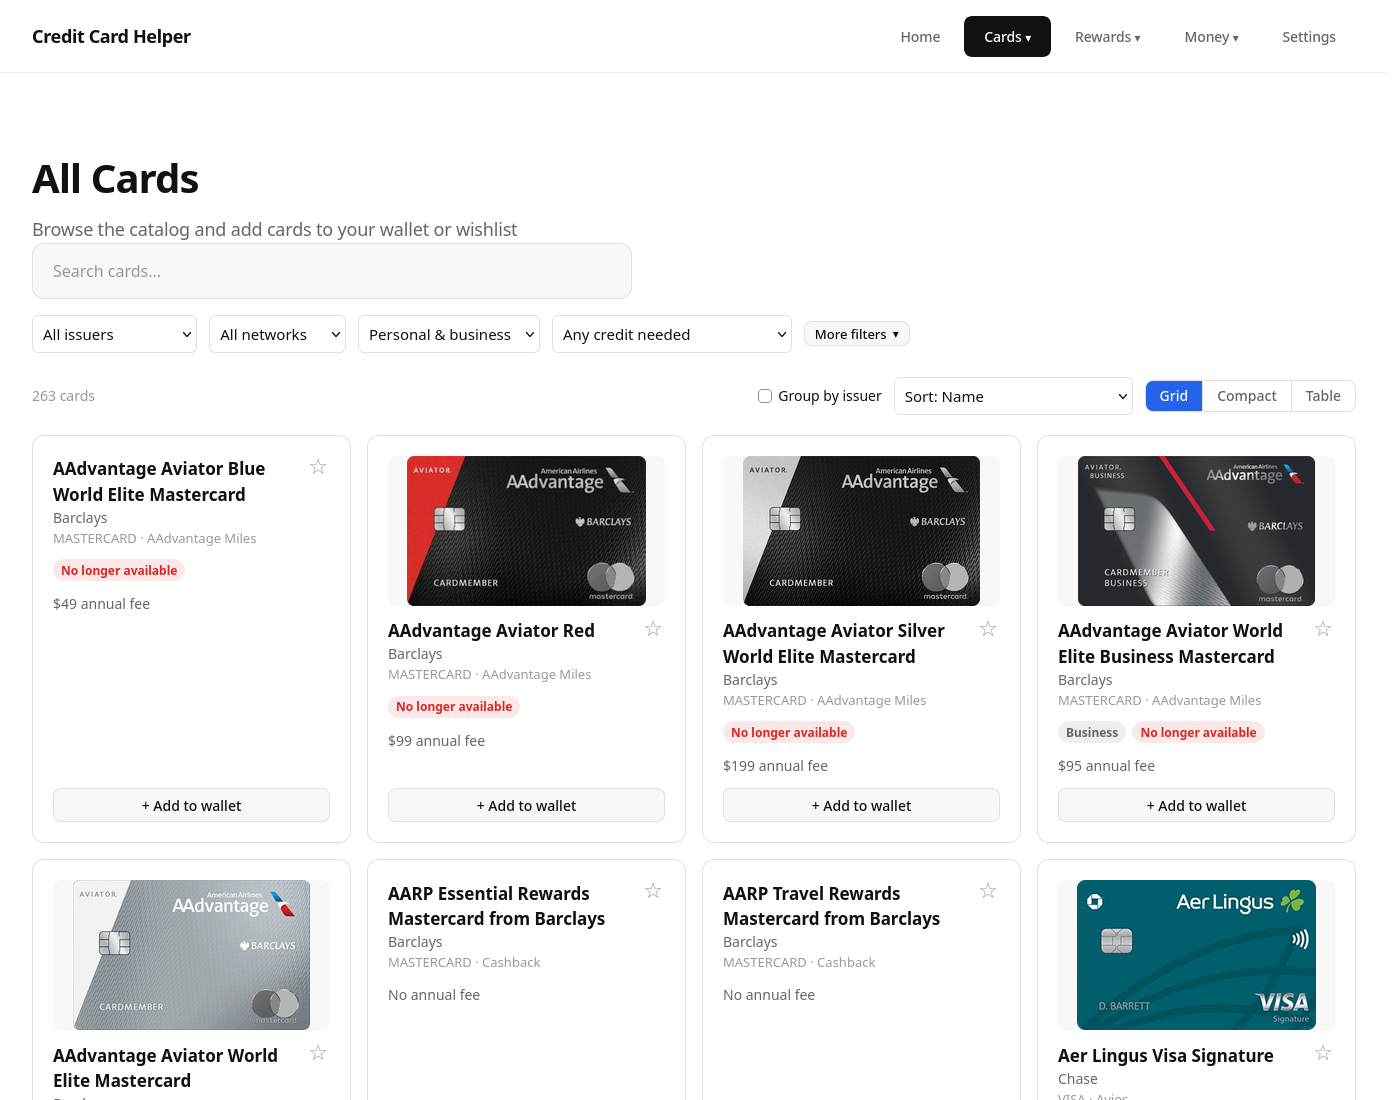
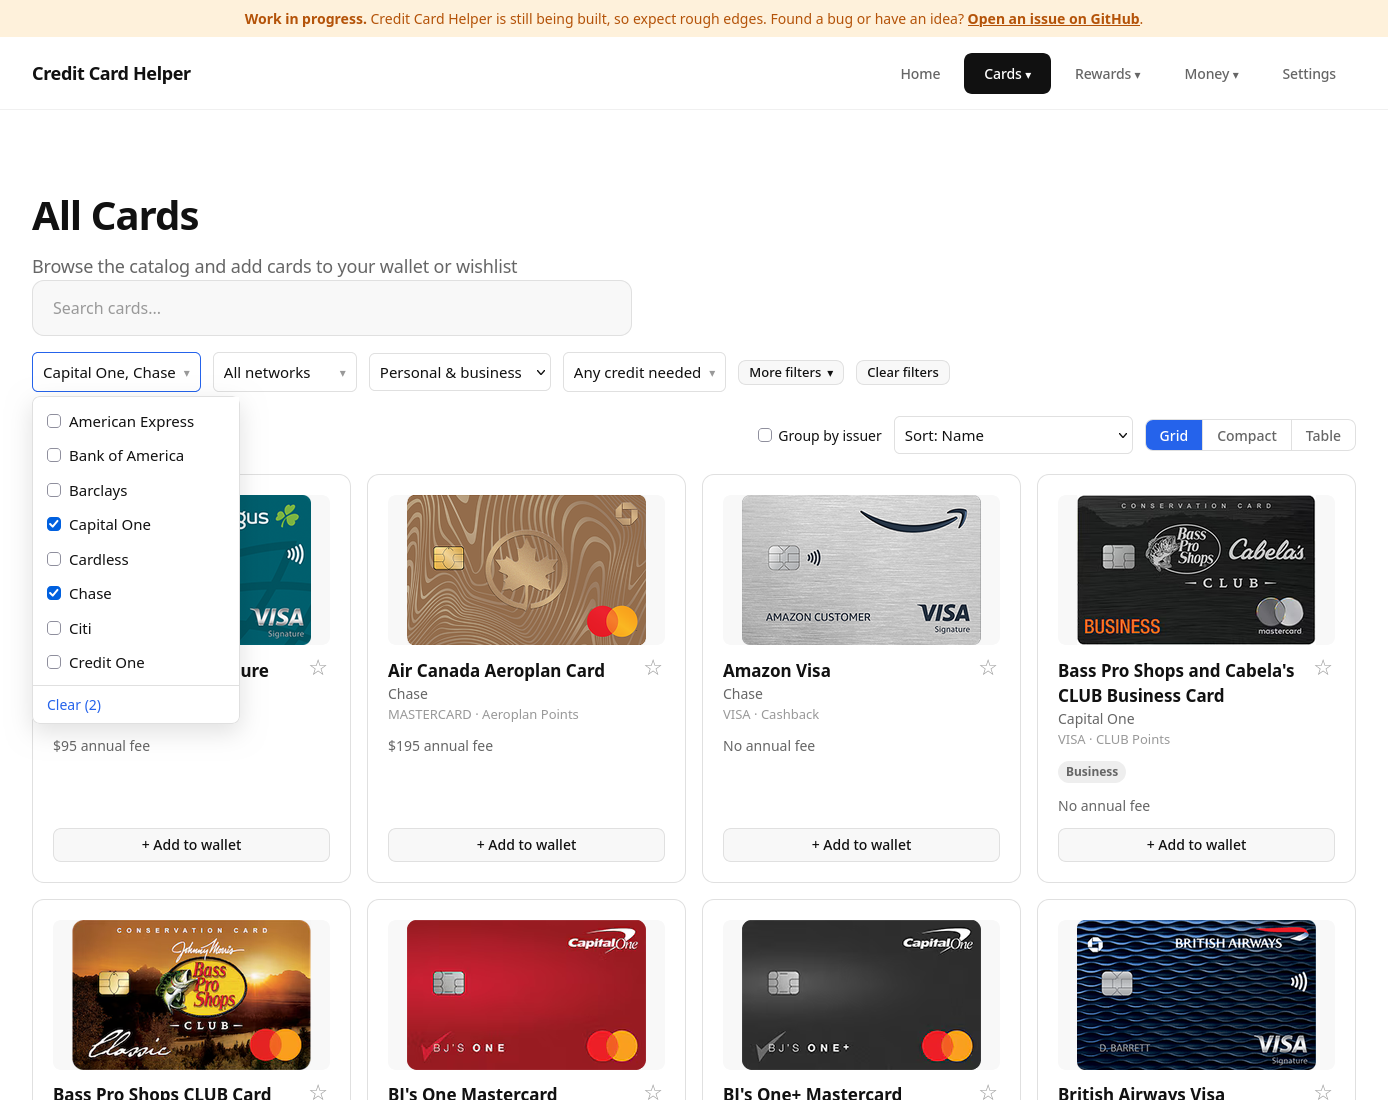
Refresh the README screenshots
Retake the Home, dark mode, wallet table, and catalog screenshots with
current features (banner, multi-value filters) and add one of a card's
history across a product change. All use made-up demo data.

diff --git a/README.md b/README.md
@@ -89,11 +89,11 @@ There's no account to create and no server: everything you enter is saved in you
 
 | Wallet table | Card catalog |
 | :---: | :---: |
-| <img src="docs/screenshots/wallet-table.png" alt="Wallet in table view with active and churning cards" width="440" /> | <img src="docs/screenshots/cards.png" alt="Card catalog in grid view with filters" width="440" /> |
+| <img src="docs/screenshots/wallet-table.png" alt="Wallet in table view with active and churning cards" width="440" /> | <img src="docs/screenshots/cards.png" alt="Card catalog in grid view, filtered to two issuers" width="440" /> |
 
-| Dark mode |
-| :---: |
-| <img src="docs/screenshots/home-dark.png" alt="The Home page in dark mode" width="900" /> |
+| Card history | Dark mode |
+| :---: | :---: |
+| <img src="docs/screenshots/card-history.png" alt="A card's history timeline across a product change" width="440" /> | <img src="docs/screenshots/home-dark.png" alt="The Home page in dark mode" width="440" /> |
 
 <sub>Screenshots use made-up demo data.</sub>
 
